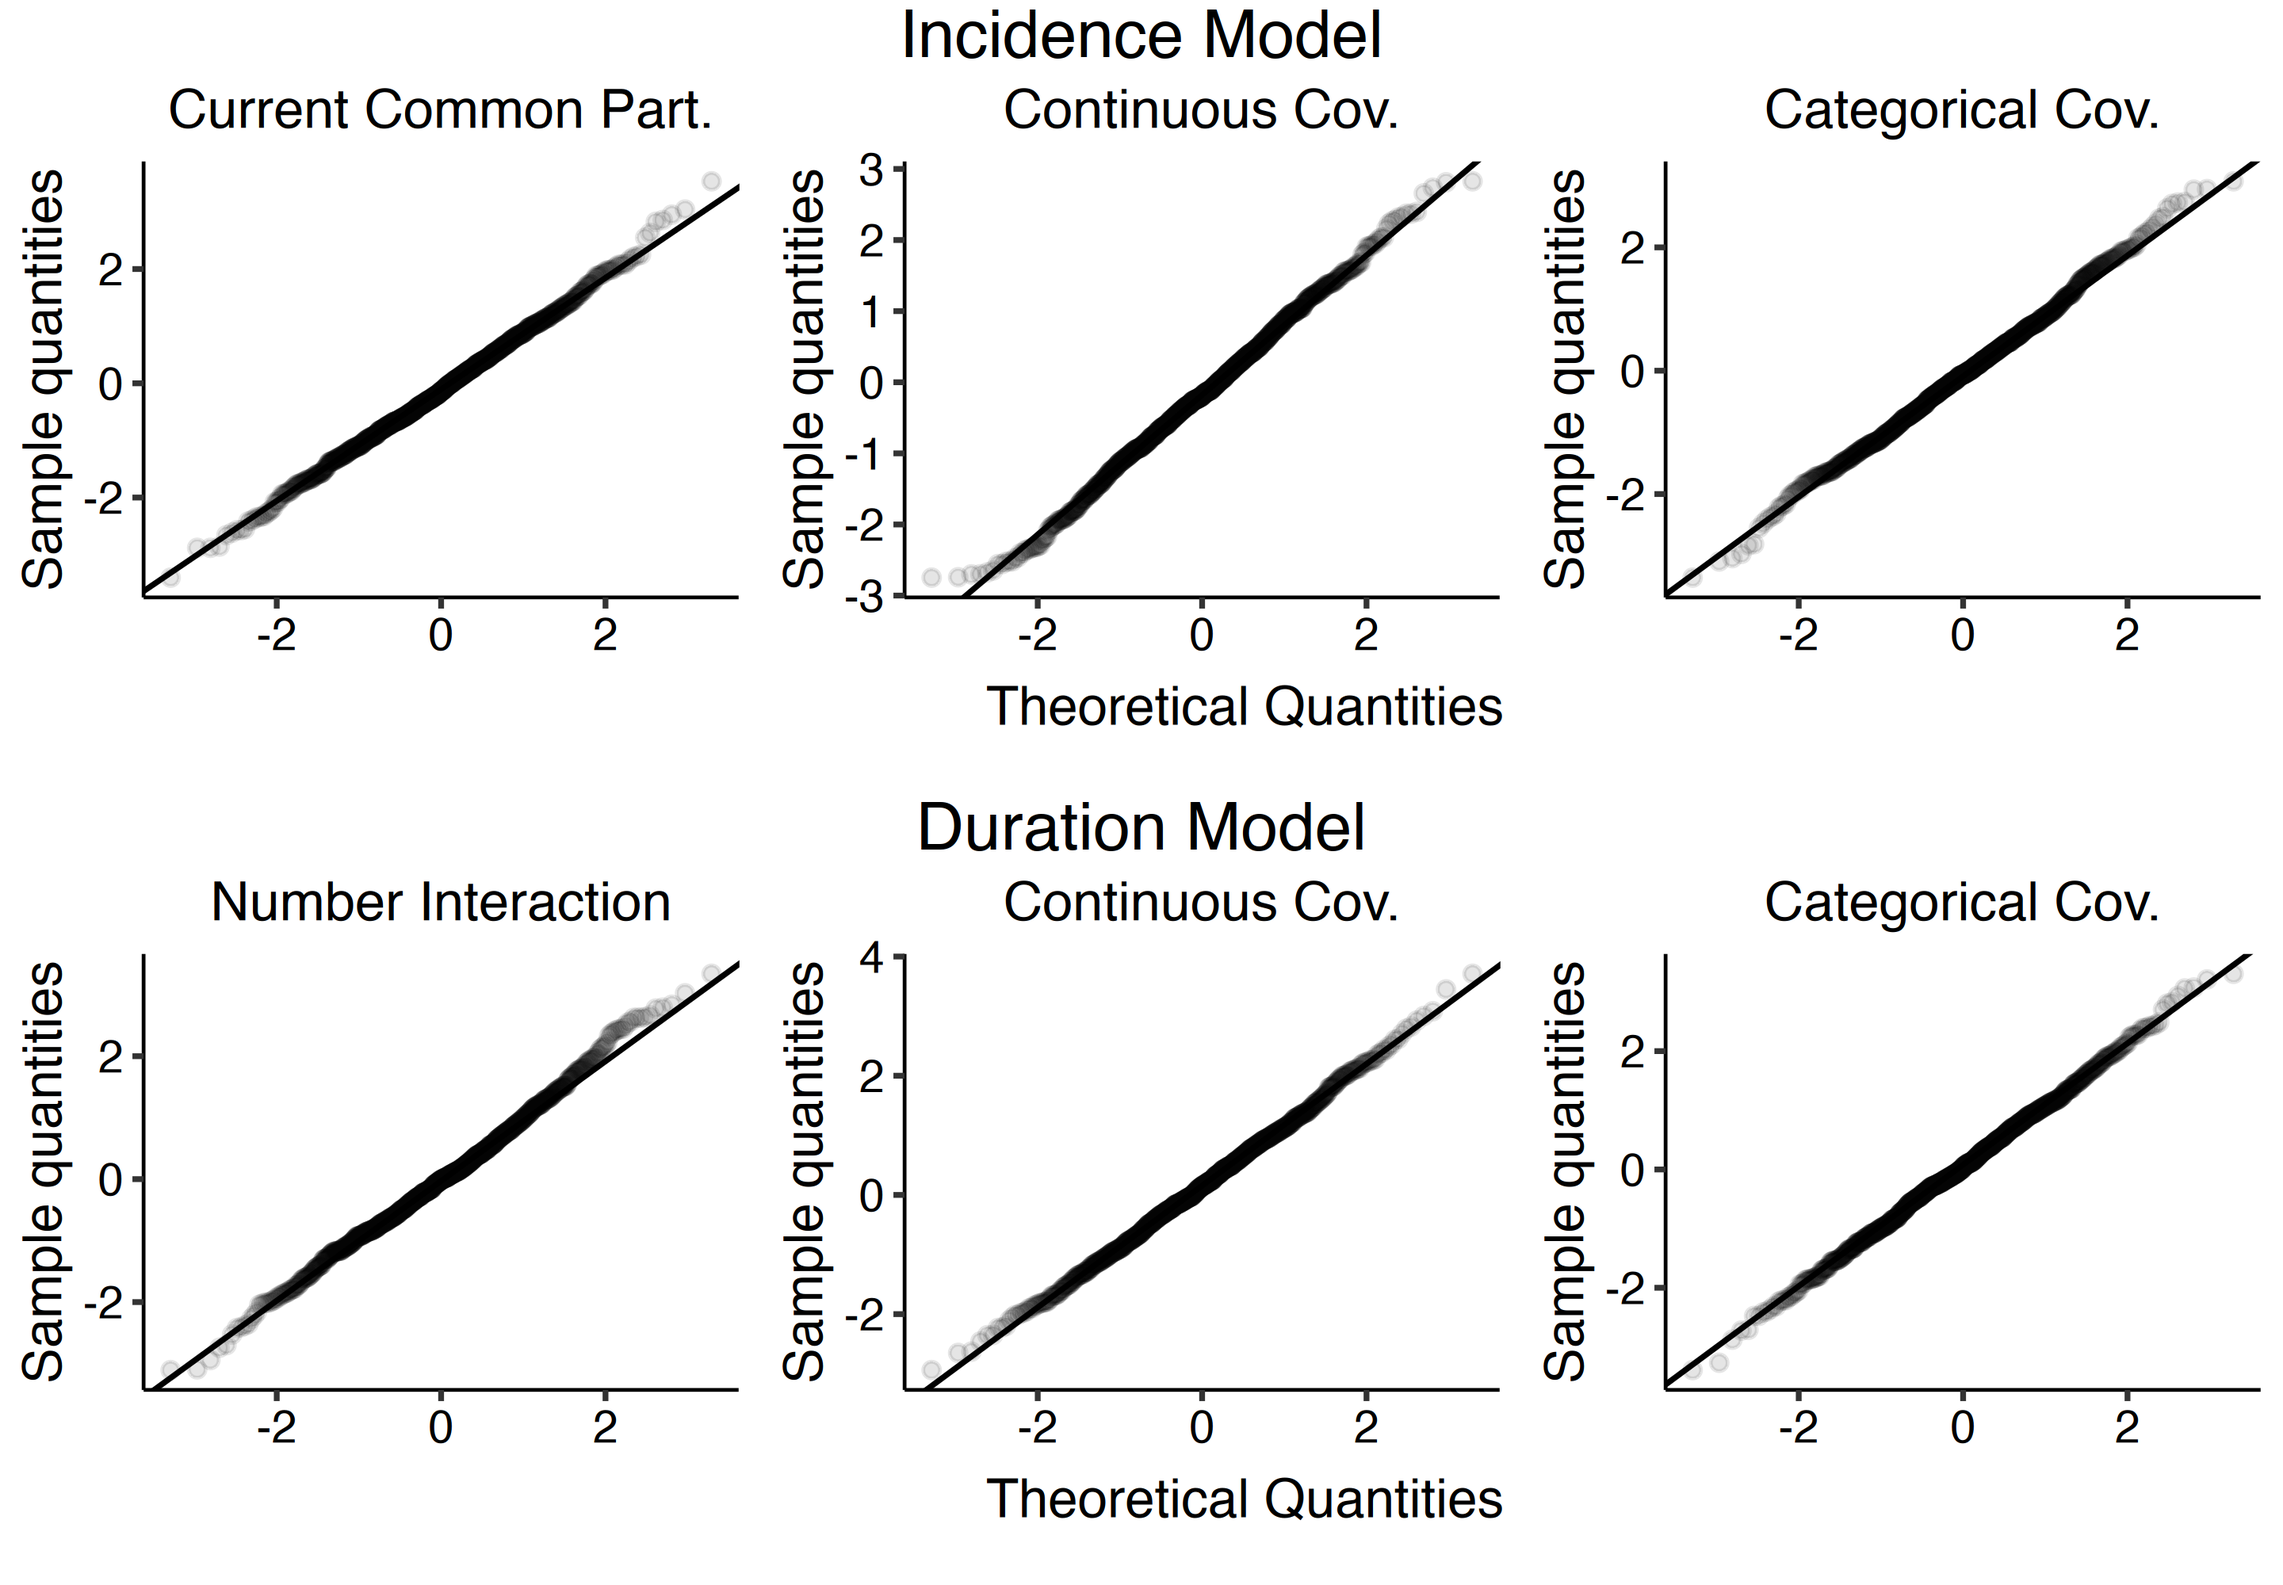
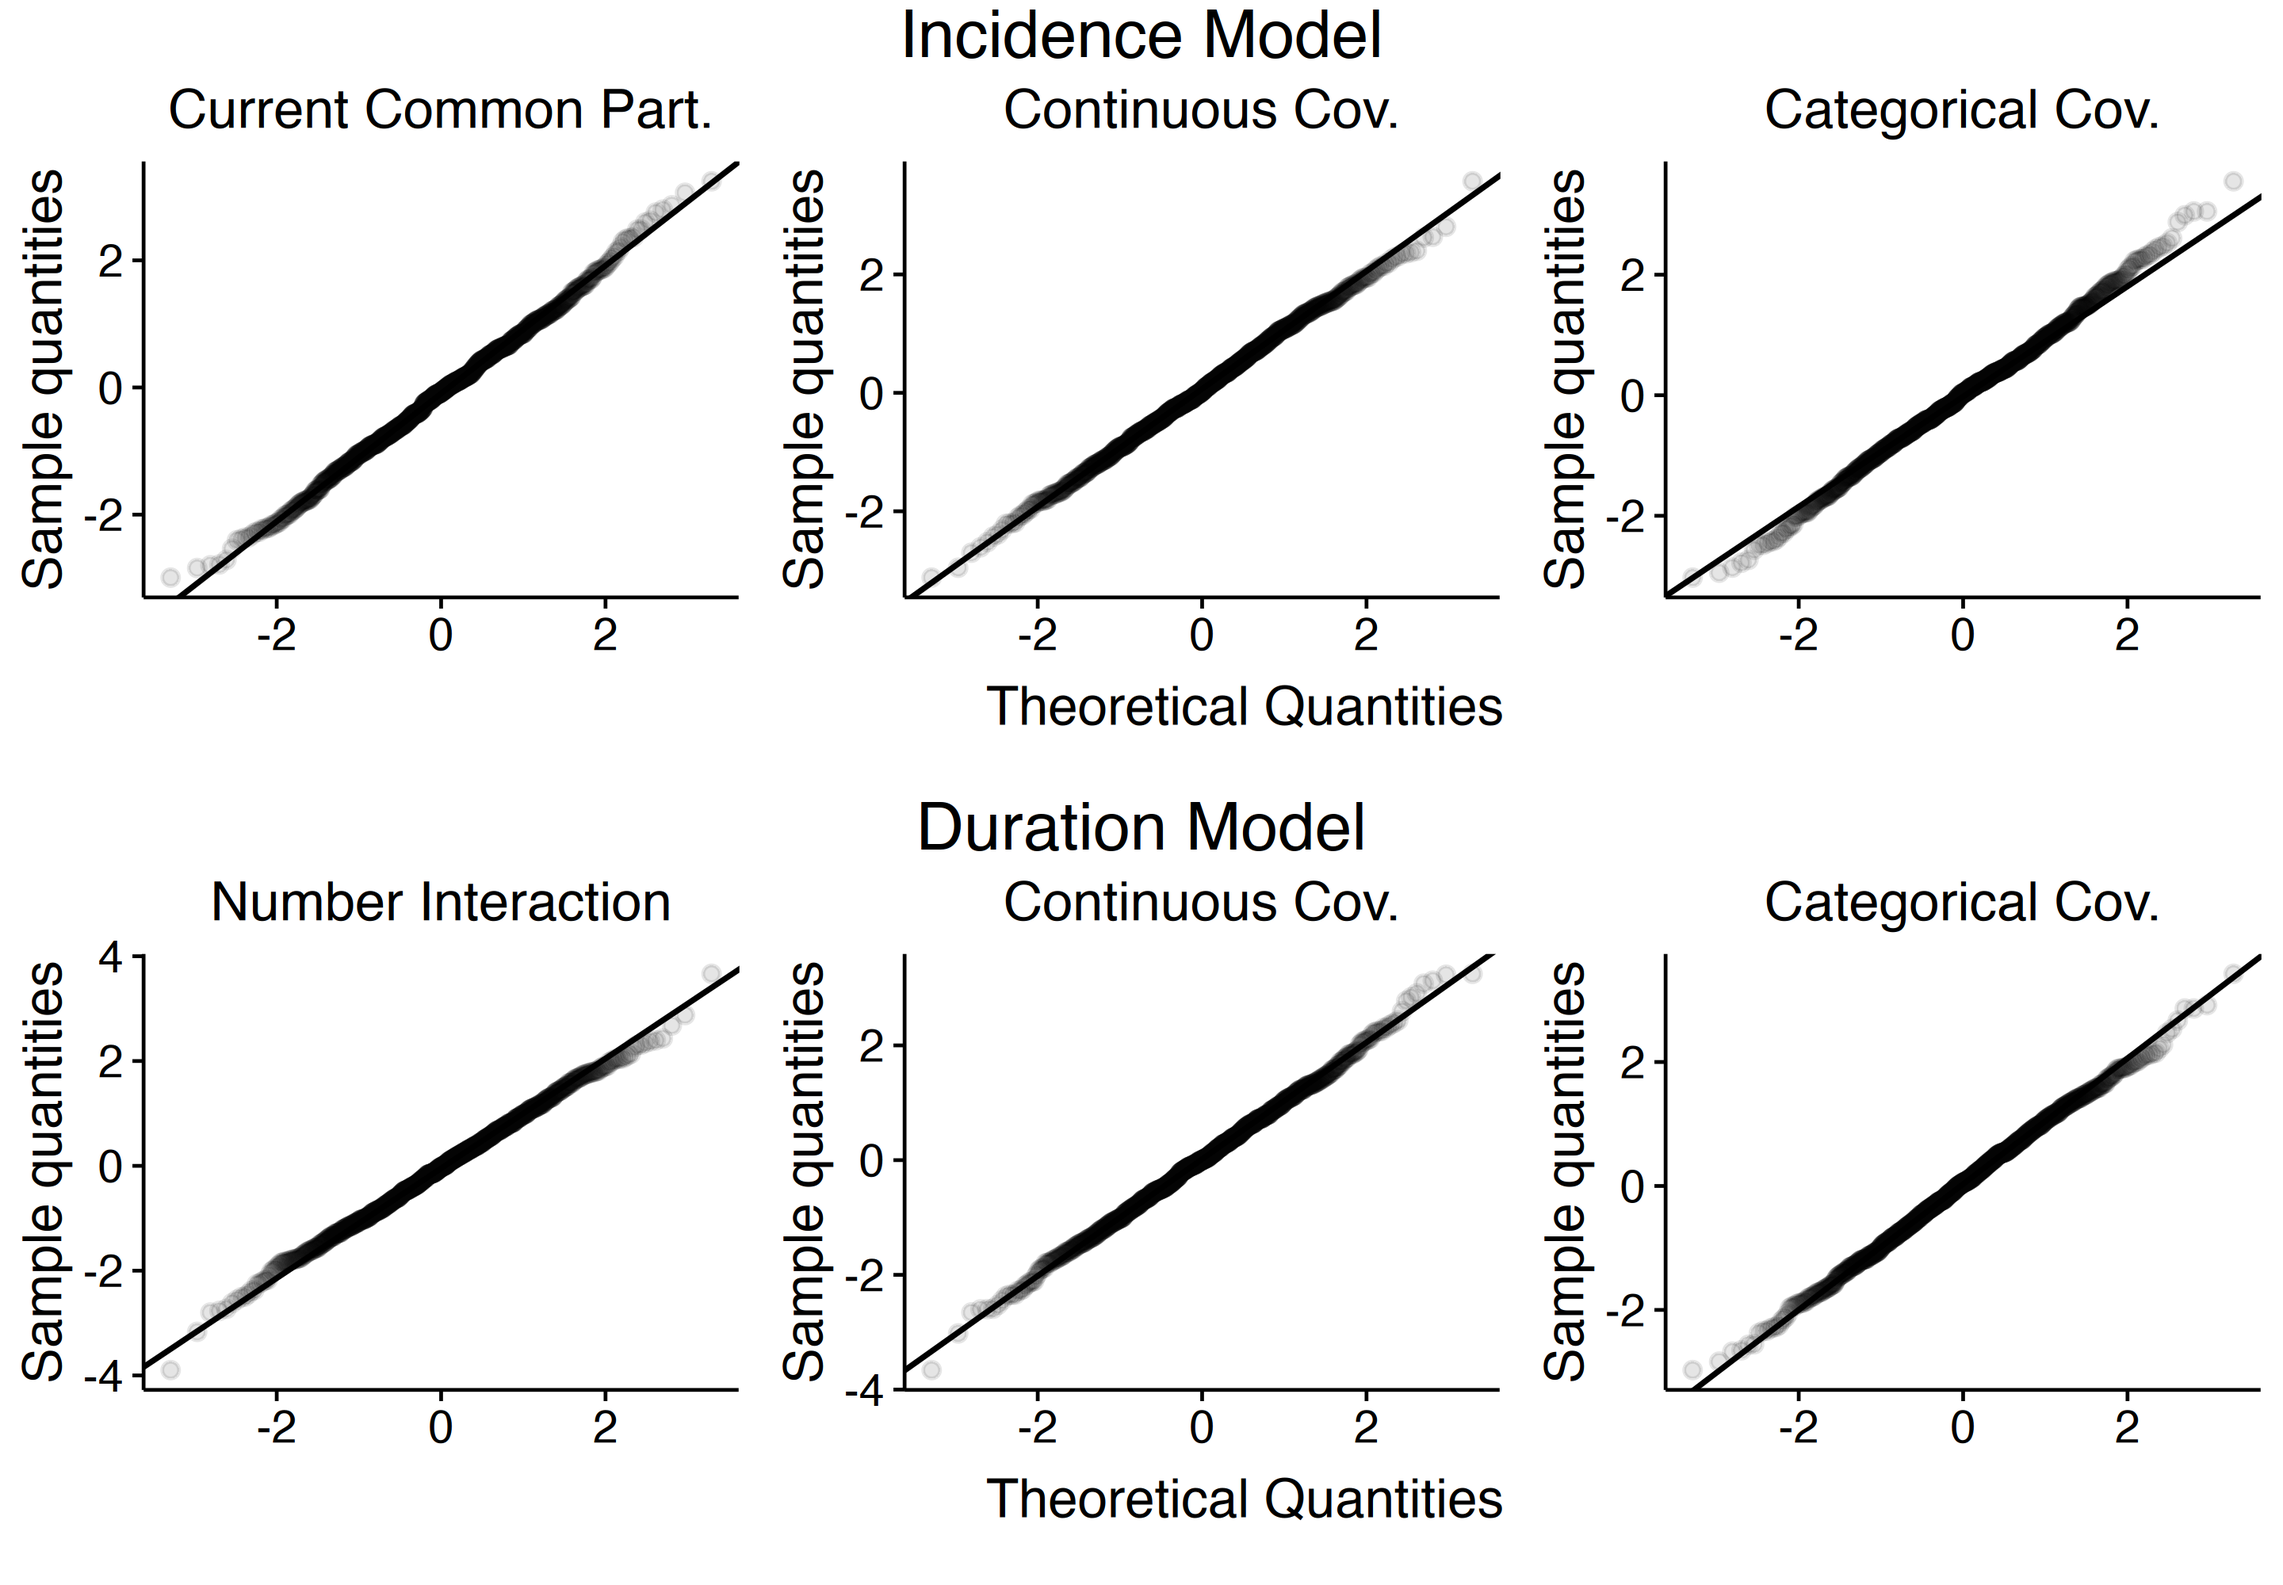
ed

diff --git a/Simulation/Results/table_simulation_1.tex b/Simulation/Results/table_simulation_1.tex
@@ -1,6 +1,5 @@
 \begin{table}[!tbp]
-\caption{Simulation Study 1:
-      For each effect, we note the AVE (AVerage Estimate), RMSE (Root-Mean-Squared Error), and CP (Coverage Probability).\label{tbl:simulation}} 
+\caption{For each effect, we report the Bias ($\hat{\bm{\alpha}}-\bm{\alpha}^\star$), RMSE (Root-Mean-Squared Error), and CP (Coverage Probability). The dependence of the sufficient statistics on the history $\mathscr{H}_t$ is suppressed for notational clarity..\label{tbl:simulation}} 
 \begin{center}
 \begin{tabular}{llllcllll}
 \hline
@@ -10,7 +9,7 @@
 \hline
 $s_{i,j,CCP}$&$-$.009&.074&.946&&$s_{i,j,NI}$&.000&.010&.956\tabularnewline
 $s_{i,j,\bm{x}}$&.001&.010&.961&&$s_{i,j,\bm{x}}$&.000&.011&.949\tabularnewline
-$s_{i,j,\bm{y}}$&.000&.010&.950&&$s_{i,j,\bm{y}}$&.000&.011&.962\tabularnewline
+$s_{i,j,\bm{w}}$&.000&.010&.950&&$s_{i,j,\bm{w}}$&.000&.011&.962\tabularnewline
 \hline
 \end{tabular}\end{center}
 \end{table}
